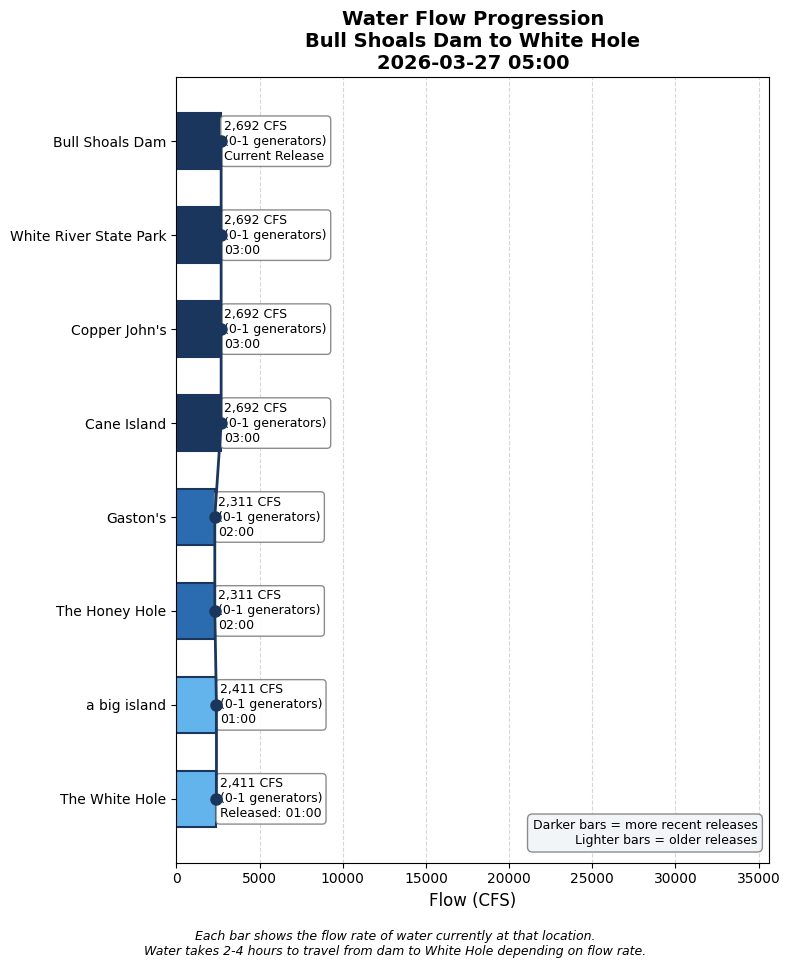
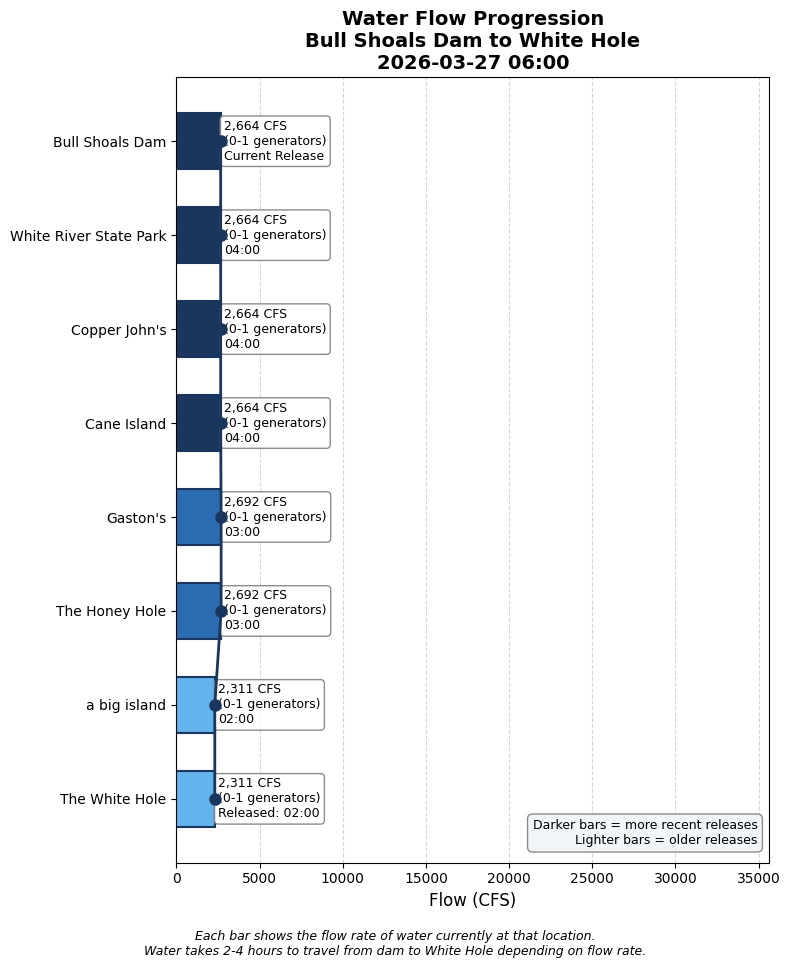
Update water conditions 2026-03-27 06:00

diff --git a/white_hole_conditions.html b/white_hole_conditions.html
@@ -3,7 +3,7 @@
 <head>
     <meta charset="UTF-8">
     <meta name="viewport" content="width=device-width, initial-scale=1.0">
-    <title>White Hole Conditions - 2026-03-27 05:00</title>
+    <title>White Hole Conditions - 2026-03-27 06:00</title>
     <style>
         body {
             font-family: -apple-system, BlinkMacSystemFont, 'Segoe UI', Roboto, sans-serif;
@@ -148,7 +148,7 @@
 </head>
 <body>
     <h1>White Hole Current Conditions</h1>
-    <p class="subtitle">Friday, March 27, 2026 at 05:00 AM</p>
+    <p class="subtitle">Friday, March 27, 2026 at 06:00 AM</p>
 
     <!-- HEADLINE BANNER -->
     <div class="headline-banner">
@@ -159,7 +159,7 @@
     <!-- CURRENT CONDITIONS -->
     <div class="current-conditions">
         <h3>Current Conditions at White Hole</h3>
-        <div class="flow-display">2,411 CFS</div>
+        <div class="flow-display">2,311 CFS</div>
         <div class="generator-display">Equivalent to 0-1 generators</div>
         <div class="condition-pills">
             <span class="pill wading">Still Wadable</span>
@@ -186,26 +186,26 @@
                 <tbody>
                     
                 <tr style="background-color: #ebf8ff;">
-                    <td style="padding: 10px; font-weight: bold;">03:00</td>
-                    <td style="padding: 10px;">2,692 CFS<br><small style="color: #666;">(0-1 generators)</small></td>
-                    <td style="padding: 10px;"><span style="color: #2b6cb0;">→ Arrives ~06:44 (in 103 min)</span></td>
+                    <td style="padding: 10px; font-weight: bold;">04:00</td>
+                    <td style="padding: 10px;">2,664 CFS<br><small style="color: #666;">(0-1 generators)</small></td>
+                    <td style="padding: 10px;"><span style="color: #2b6cb0;">→ Arrives ~07:44 (in 103 min)</span></td>
                 </tr>
             
                 <tr style="background-color: #ebf8ff;">
-                    <td style="padding: 10px; font-weight: bold;">02:00</td>
-                    <td style="padding: 10px;">2,311 CFS<br><small style="color: #666;">(0-1 generators)</small></td>
-                    <td style="padding: 10px;"><span style="color: #2b6cb0;">→ Arrives ~05:44 (in 43 min)</span></td>
+                    <td style="padding: 10px; font-weight: bold;">03:00</td>
+                    <td style="padding: 10px;">2,692 CFS<br><small style="color: #666;">(0-1 generators)</small></td>
+                    <td style="padding: 10px;"><span style="color: #2b6cb0;">→ Arrives ~06:44 (in 43 min)</span></td>
                 </tr>
             
                 <tr style="background-color: #e6fffa;">
-                    <td style="padding: 10px; font-weight: bold;">01:00</td>
-                    <td style="padding: 10px;">2,411 CFS<br><small style="color: #666;">(0-1 generators)</small></td>
+                    <td style="padding: 10px; font-weight: bold;">02:00</td>
+                    <td style="padding: 10px;">2,311 CFS<br><small style="color: #666;">(0-1 generators)</small></td>
                     <td style="padding: 10px;"><span style="color: #319795; font-weight: bold;">← AT WHITE HOLE NOW</span></td>
                 </tr>
             
                 <tr style="">
-                    <td style="padding: 10px; font-weight: bold;">21:00</td>
-                    <td style="padding: 10px;">4,572 CFS<br><small style="color: #666;">(1-2 generators)</small></td>
+                    <td style="padding: 10px; font-weight: bold;">22:00</td>
+                    <td style="padding: 10px;">1,749 CFS<br><small style="color: #666;">(0-1 generators)</small></td>
                     <td style="padding: 10px;"><span style="color: #718096;">passed</span></td>
                 </tr>
             
@@ -230,9 +230,9 @@
         </summary>
         <div style="padding: 15px;">
             <ul>
-                <li>Latest dam reading: 2,692 CFS at 2026-03-27 03:00</li>
+                <li>Latest dam reading: 2,664 CFS at 2026-03-27 04:00</li>
                 <li>Travel time to White Hole: 3.7 hours at current flow</li>
-                <li>White Hole conditions based on dam reading from: 2026-03-27 01:00</li>
+                <li>White Hole conditions based on dam reading from: 2026-03-27 02:00</li>
             </ul>
         </div>
     </details>
@@ -254,6 +254,13 @@
                     </thead>
                     <tbody>
                         
+                <tr style="border-bottom: 1px solid #eee;">
+                    <td style="padding: 8px;">2026-03-27 04:00</td>
+                    <td style="padding: 8px; text-align: right;">2664</td>
+                    <td style="padding: 8px; text-align: right;">0.8</td>
+                    <td style="padding: 8px; text-align: right;">3.7</td>
+                </tr>
+                
                 <tr style="border-bottom: 1px solid #eee;">
                     <td style="padding: 8px;">2026-03-27 03:00</td>
                     <td style="padding: 8px; text-align: right;">2692</td>
@@ -310,13 +317,6 @@
                     <td style="padding: 8px; text-align: right;">2.4</td>
                 </tr>
                 
-                <tr style="border-bottom: 1px solid #eee;">
-                    <td style="padding: 8px;">2026-03-26 18:00</td>
-                    <td style="padding: 8px; text-align: right;">15451</td>
-                    <td style="padding: 8px; text-align: right;">4.7</td>
-                    <td style="padding: 8px; text-align: right;">2.3</td>
-                </tr>
-                
                     </tbody>
                 </table>
             </div>
@@ -324,7 +324,7 @@
         
 
     <div class="timestamp">
-        Data retrieved and processed on 2026-03-27 05:00:08
+        Data retrieved and processed on 2026-03-27 06:00:08
     </div>
 </body>
 </html>
